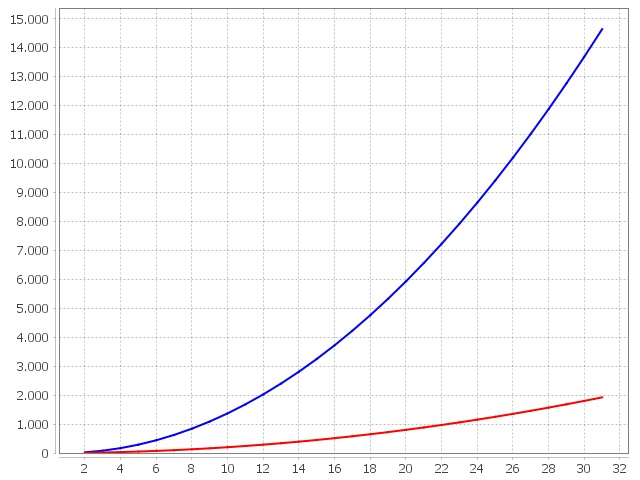
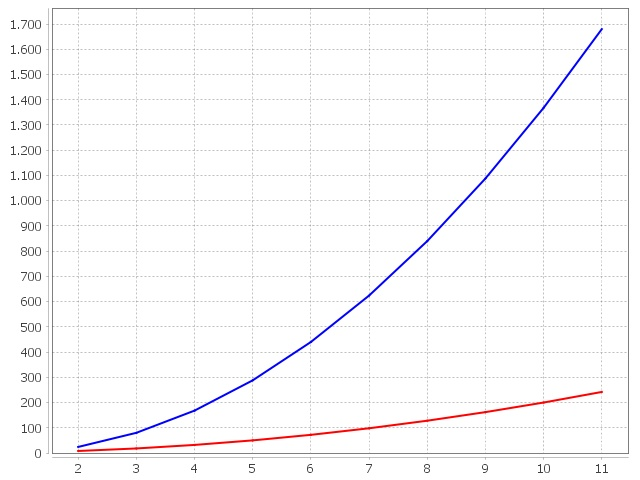
Klassen in Paketen geordnet

diff --git a/src/OLSR/OlsrSimulation.java b/src/OLSR/OlsrSimulation.java
@@ -1,0 +1,49 @@
+package OLSR;
+
+import MatlabChart.MatlabChart;
+
+public class OlsrSimulation {
+
+	public void simulation(){
+		int anzahlExperimente = 10;
+		
+		int[] netzwerkBreite = new int[anzahlExperimente];
+		double[] anzahlGesendeterHelloNachrichten = new double[anzahlExperimente];
+		double[] anzahlEmpfangenerHelloNachrichten = new double[anzahlExperimente];
+		
+		for(int i=0; i<netzwerkBreite.length; i++){
+			netzwerkBreite[i] = i+2;
+		}
+		
+		
+		for(int i=0; i<netzwerkBreite.length; i++){
+			OLSR_Graph graph = new OLSR_Graph(netzwerkBreite[i]);
+			
+			//Graph initialisieren
+			graph.HelloNachrichtenSenden();
+			graph.mprSetsBestimmen();
+			graph.HelloNachrichtenSenden();
+			graph.TcNachrichtenSenden();
+			
+			
+			//experimente[i][1] = graph.getAnzahlGesendeterHelloNachrichten();
+			anzahlGesendeterHelloNachrichten[i] = graph.getAnzahlGesendeterHelloNachrichten();
+			//experimente[i][2] = graph.getAnzahlEmpfangenerHelloNachrichten();
+			anzahlEmpfangenerHelloNachrichten[i] = graph.getAnzahlEmpfangenerHelloNachrichten();
+			//experimente[i][3] = graph.getAnzahlGesendeterTcNachrichten();
+			//experimente[i][4] = graph.getAnzahlEmpfangenerTcNachrichten();
+		}
+		
+		MatlabChart fig = new MatlabChart();
+		double[] netzwerkBreiteDouble = new double[netzwerkBreite.length];
+		for(int i=0; i<netzwerkBreite.length; i++){
+			netzwerkBreiteDouble[i] = (double)netzwerkBreite[i];
+		}
+		fig.plot(netzwerkBreiteDouble, anzahlGesendeterHelloNachrichten, "-r", (float) 2.0, "Gesendete HELLO Nachrichten");
+		fig.plot(netzwerkBreiteDouble, anzahlEmpfangenerHelloNachrichten, "-b", (float) 2.0, "Empfangene HELLO Nachrichten");
+		fig.RenderPlot();
+		fig.grid("on", "on");
+		fig.saveas("MyPlot.jpeg",640,480);
+	}
+	
+}

diff --git a/src/BasisGraphStruktur/Knoten.java b/src/BasisGraphStruktur/Knoten.java
@@ -1,3 +1,4 @@
+package BasisGraphStruktur;
 
 
 /**
@@ -9,13 +10,13 @@ public abstract class Knoten {
 
 	protected int ID;
 
-	int anzahlVerbundenerKnoten;
+	protected int anzahlVerbundenerKnoten;
 	protected Knoten[] verbundeneKnoten;
 	
 	private double energiebedarfProEmpfangemByte;
 	private double zusaetzlicherEnergiebedarfProEmpfangsaktion;
 	private double energiebedarfProGesendetemByte;
-	private double zustaetlicherEnergiebedarProSendeaktion;
+	private double zustaetlicherEnergiebedarfProSendeaktion;
 
 	private Knoten(){
 		anzahlVerbundenerKnoten = 0;
@@ -60,9 +61,9 @@ public abstract class Knoten {
 		ID = iD;
 	}
 	
-	public abstract void nachrichtSenden();
+	public abstract void nachrichtSenden(Nachricht nachricht);
 	
-	public abstract void nachrichtEmpfangen();
+	public abstract void nachrichtEmpfangen(Nachricht nachricht);
 	
 	public String toString(){
 		String returnString = "KnotenID:" + this.ID + "; Nachbarn: ";
@@ -70,6 +71,14 @@ public abstract class Knoten {
 			returnString = returnString + verbundeneKnoten[i].getID() + " ";
 		}
 		return returnString;
+	}
+
+	public int getAnzahlVerbundenerKnoten() {
+		return anzahlVerbundenerKnoten;
+	}
+
+	public Knoten[] getVerbundeneKnoten() {
+		return verbundeneKnoten;
 	}
 	
 	

diff --git a/src/OLSR/OLSR_Knoten.java b/src/OLSR/OLSR_Knoten.java
@@ -1,4 +1,9 @@
+package OLSR;
+
 import java.util.LinkedList;
+
+import BasisGraphStruktur.Knoten;
+import BasisGraphStruktur.Nachricht;
 
 /**
  * @author Christoph Bergmann
@@ -52,8 +57,8 @@ public class OLSR_Knoten extends Knoten {
 			LinkedList<MoeglicherMPR> moeglicheMPRs = new LinkedList<MoeglicherMPR>();
 			for(int i=0; i<anzahlVerbundenerKnoten; i++){
 				MoeglicherMPR moeglicherMPR = new MoeglicherMPR(verbundeneKnoten[i].getID());
-				for(int j=0; j<verbundeneKnoten[i].anzahlVerbundenerKnoten;j++){
-					moeglicherMPR.addNachbar(verbundeneKnoten[i].verbundeneKnoten[j].getID());
+				for(int j=0; j<verbundeneKnoten[i].getAnzahlVerbundenerKnoten();j++){
+					moeglicherMPR.addNachbar(verbundeneKnoten[i].getVerbundeneKnoten()[j].getID());
 				}
 				moeglicheMPRs.add(moeglicherMPR);
 			}
@@ -302,13 +307,13 @@ public class OLSR_Knoten extends Knoten {
 	}
 
 	@Override
-	public void nachrichtSenden() {
+	public void nachrichtSenden(Nachricht nachricht) {
 		// TODO Auto-generated method stub
 		
 	}
 
 	@Override
-	public void nachrichtEmpfangen() {
+	public void nachrichtEmpfangen(Nachricht nachricht) {
 		// TODO Auto-generated method stub
 		
 	}

diff --git a/src/Fluten/FlutenKnoten.java b/src/Fluten/FlutenKnoten.java
@@ -1,0 +1,43 @@
+package Fluten;
+import java.util.LinkedList;
+
+import BasisGraphStruktur.Knoten;
+import BasisGraphStruktur.Nachricht;
+
+public class FlutenKnoten extends Knoten{
+	
+	private LinkedList<Nachricht> empfangeneNachrichten;
+	private int anzahlEmpfangenerNachrichten;
+	private int anzahlGesendeterNachrichten;
+
+	public FlutenKnoten(int id) {
+		super(id);
+		
+		empfangeneNachrichten = new LinkedList<Nachricht>();
+		anzahlEmpfangenerNachrichten = 0;
+		anzahlGesendeterNachrichten = 0;
+	}
+
+	@Override
+	public void nachrichtSenden(Nachricht nachricht) {
+		anzahlGesendeterNachrichten++;
+		for(Knoten knoten: verbundeneKnoten){
+			((FlutenKnoten)knoten).nachrichtEmpfangen(nachricht);
+		}
+		
+	}
+
+	@Override
+	public void nachrichtEmpfangen(Nachricht nachricht) {
+		anzahlEmpfangenerNachrichten++;
+		if(!empfangeneNachrichten.contains(nachricht)){
+			//Nachricht weiterleiten
+			for(Knoten knoten: verbundeneKnoten){
+				((FlutenKnoten)knoten).nachrichtEmpfangen(nachricht);
+			}
+			anzahlGesendeterNachrichten++;
+		}
+		
+	}
+
+}

diff --git a/src/Simulator/Main.java b/src/Simulator/Main.java
@@ -1,9 +1,12 @@
+package Simulator;
+import MatlabChart.MatlabChart;
+import OLSR.OLSR_Graph;
 
 public class Main {
 
 	
 	public static void main(String args[]){
-		int anzahlExperimente = 30;
+		int anzahlExperimente = 10;
 		
 		int[] netzwerkBreite = new int[anzahlExperimente];
 		double[] anzahlGesendeterHelloNachrichten = new double[anzahlExperimente];

diff --git a/src/BasisGraphStruktur/Nachricht.java b/src/BasisGraphStruktur/Nachricht.java
@@ -1,0 +1,13 @@
+package BasisGraphStruktur;
+
+public class Nachricht {
+	private int zielknotenID;
+
+	public Nachricht(int zielknotenID){
+		this.zielknotenID = zielknotenID;
+	}
+	
+	public int getZielknotenID() {
+		return zielknotenID;
+	}
+}

diff --git a/src/OLSR/MoeglicherMprComparator.java b/src/OLSR/MoeglicherMprComparator.java
@@ -1,3 +1,4 @@
+package OLSR;
 import java.util.Comparator;
 
 public class MoeglicherMprComparator implements Comparator{

diff --git a/src/OLSR/MoeglicherMPR.java b/src/OLSR/MoeglicherMPR.java
@@ -1,3 +1,4 @@
+package OLSR;
 import java.util.LinkedList;
 
 public class MoeglicherMPR implements Comparable{

diff --git a/src/OLSR/OLSR_Graph.java b/src/OLSR/OLSR_Graph.java
@@ -1,4 +1,5 @@
-
+package OLSR;
+import BasisGraphStruktur.Graph;
 
 /**
  * @author Christoph Bergmann

diff --git a/src/OLSR/NachbarKnoten.java b/src/OLSR/NachbarKnoten.java
@@ -1,3 +1,4 @@
+package OLSR;
 import java.util.LinkedList;
 import java.util.List;
 

diff --git a/src/BasisGraphStruktur/Graph.java b/src/BasisGraphStruktur/Graph.java
@@ -1,3 +1,4 @@
+package BasisGraphStruktur;
 
 /**
  * @author Christoph Bergmann
